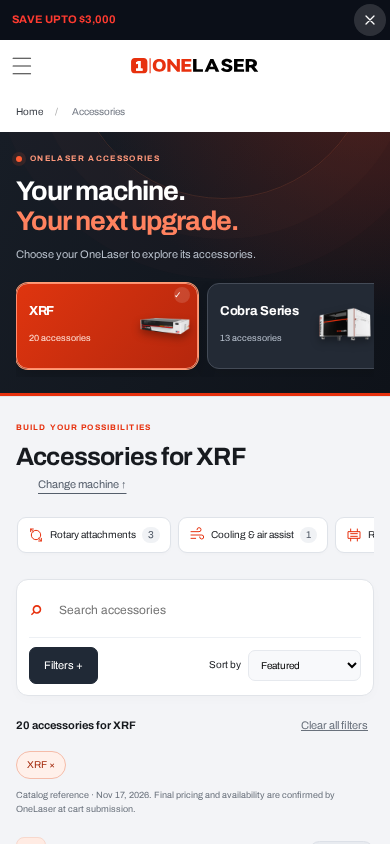
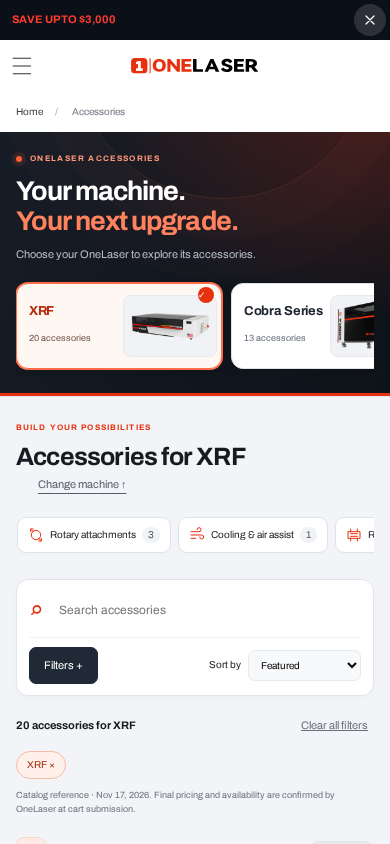
Improve machine thumbnail clarity with light selector cards

Changed region(s): [[0.0308, 0.3081, 0.9846, 0.4621]]

diff --git a/assets/ac-theme.css b/assets/ac-theme.css
@@ -11,14 +11,14 @@
 
 :scope{--ink:#171a1f;--muted:#626873;--line:#e4e6ea;--soft:#f3f4f7;--accent:#e7310e;--accent-deep:#c82709;--accent-soft:#fff0ea;--night:#11151c}
 :scope{background:#fff}.announcement{background:var(--night);font-size:11px;padding:8px 20px;letter-spacing:.04em}.announcement a{color:#ff9a7d}.header{padding:23px 40px;min-height:83px;border-bottom:1px solid #e6e8ec}.logo{display:inline-flex;align-items:center}.logo img{display:block;max-width:100%;height:auto}.header nav{font-size:13px;font-weight:700;gap:34px}.header nav a{position:relative}.header nav .active:after{content:'';position:absolute;bottom:-30px;left:0;right:0;height:3px;background:var(--accent);border-radius:2px}.header-help{background:var(--accent);color:#fff;padding:10px 18px;border:0;border-radius:30px;font-weight:700;box-shadow:0 4px 14px #e7310e22}.breadcrumb{padding-top:15px;padding-bottom:15px;color:#717782}.breadcrumb a{color:#3a3f47}.wrap{max-width:1360px}
-.machine-section{position:relative;overflow:hidden;background:radial-gradient(ellipse at 95% -30%,#9d2a1870,transparent 55%),linear-gradient(115deg,#171d26,#0e1219);padding:25px 0 22px;color:#fff;border-bottom:3px solid var(--accent)}.machine-section:before{content:'';position:absolute;width:300px;height:300px;right:4%;top:-235px;border:1px solid #ff7f4d25;border-radius:50%;box-shadow:0 0 0 40px #ff7f4d06,0 0 0 80px #ff7f4d05;pointer-events:none}.machine-section .wrap{position:relative}.machine-section .section-head{margin-bottom:18px}.machine-section .eyebrow{color:#ff987b;font-size:10px;letter-spacing:.17em;display:flex;align-items:center;gap:8px}.machine-section .eyebrow:before{content:'';width:6px;height:6px;border-radius:50%;background:#ff5c32;box-shadow:0 0 0 4px #ff5c3220}.machine-section h1{font-size:32px;color:#fff;letter-spacing:-.9px}.machine-section h1 span{color:#ff825f}.picker-intro{color:#b7bfca;font-size:12px;margin-top:8px}.machines{gap:11px;padding:2px 2px 8px;scrollbar-color:#606976 #ffffff08}.machine,.machine:first-child{position:relative;background:#232a35;border:1px solid #444b57;border-radius:12px;color:#f8f9fb;flex:1 0 0;min-width:182px;height:88px;min-height:88px;display:flex;align-items:center;padding:14px 12px;isolation:isolate;box-shadow:0 6px 16px #00000012;transition:background .2s,border-color .2s,transform .2s}.machine:hover{background:#303743;border-color:#fa8568;transform:translateY(-2px)}.machine strong{font-size:14px;margin-bottom:6px;color:#fff}.machine small{color:#b8c1ce;font-size:10px}.machine[aria-pressed=true]{background:linear-gradient(130deg,#df350f,#b5270d);border-color:#ff8e6f;box-shadow:0 0 0 1px #ff9e75,0 8px 20px #0003}.machine[aria-pressed=true] small{color:#ffe2d8}.machine[aria-pressed=true]:after{color:#fff;right:7px;top:3px;background:#fff2;width:16px;height:16px;border-radius:50%;line-height:16px;font-size:9px}.machine-photo{width:72px;height:62px;object-fit:contain;flex-shrink:0;order:2;margin-left:auto;filter:drop-shadow(0 4px 4px #0005);border-radius:4px}.machine-copy{display:block;position:relative;z-index:1;white-space:nowrap;min-width:90px}.machine::before{display:none}.machine:first-child::before{display:none}
+.machine-section{position:relative;overflow:hidden;background:radial-gradient(ellipse at 95% -30%,#9d2a1870,transparent 55%),linear-gradient(115deg,#171d26,#0e1219);padding:25px 0 22px;color:#fff;border-bottom:3px solid var(--accent)}.machine-section:before{content:'';position:absolute;width:300px;height:300px;right:4%;top:-235px;border:1px solid #ff7f4d25;border-radius:50%;box-shadow:0 0 0 40px #ff7f4d06,0 0 0 80px #ff7f4d05;pointer-events:none}.machine-section .wrap{position:relative}.machine-section .section-head{margin-bottom:18px}.machine-section .eyebrow{color:#ff987b;font-size:10px;letter-spacing:.17em;display:flex;align-items:center;gap:8px}.machine-section .eyebrow:before{content:'';width:6px;height:6px;border-radius:50%;background:#ff5c32;box-shadow:0 0 0 4px #ff5c3220}.machine-section h1{font-size:32px;color:#fff;letter-spacing:-.9px}.machine-section h1 span{color:#ff825f}.picker-intro{color:#b7bfca;font-size:12px;margin-top:8px}.machines{gap:11px;padding:2px 2px 8px;scrollbar-color:#606976 #ffffff08}.machine,.machine:first-child{position:relative;background:#fff;border:1px solid #dce1e8;border-radius:12px;color:#202630;flex:1 0 0;min-width:206px;height:88px;min-height:88px;display:flex;align-items:center;padding:14px 12px;isolation:isolate;box-shadow:0 6px 16px #00000012;transition:background .2s,border-color .2s,transform .2s}.machine:hover{background:#fffaf7;border-color:#fa8568;transform:translateY(-2px)}.machine strong{font-size:14px;margin-bottom:6px;color:#202630}.machine small{color:#626b78;font-size:10px}.machine[aria-pressed=true]{background:#fff7f2;border-color:#ff6d48;box-shadow:0 0 0 1px #ff6d48,0 6px 16px #0002}.machine[aria-pressed=true] strong{color:#b82b0d}.machine[aria-pressed=true] small{color:#6c5045}.machine[aria-pressed=true]:after{color:#fff;right:7px;top:3px;background:#e7310e;width:16px;height:16px;border-radius:50%;line-height:16px;font-size:9px}.machine-photo{width:94px;height:64px;object-fit:cover;flex-shrink:0;order:2;margin-left:auto;filter:none;background:#f0f2f5;border:1px solid #e6e9ee;border-radius:8px}.machine-copy{display:block;position:relative;z-index:1;white-space:nowrap;min-width:78px;margin-right:4px}.machine::before{display:none}.machine:first-child::before{display:none}
 .catalog-section{background:#f3f4f7;padding:34px 0 64px}.catalog-section .eyebrow{font-size:10px;margin-bottom:7px}.catalog-section h2{font-size:30px;font-weight:700;letter-spacing:-1px}.catalog-section .section-head{margin-bottom:23px}#change-machine{font-size:11px;color:#555e6b}.category-nav{margin-bottom:22px;gap:8px}.category-nav a{display:flex;align-items:center;gap:8px;padding:10px 14px;border-radius:9px;border:1px solid #dfe3e9;font-size:11px;background:#fff;box-shadow:0 2px 3px #1d253004;transition:background .18s,box-shadow .18s}.category-nav a>svg{width:18px;height:18px;color:var(--accent);flex-shrink:0}.category-nav a>span{border-radius:20px;display:inline-block;background:#f0f2f5;padding:0 6px;font-size:10px;margin:0;color:#4e5764}.category-nav a:hover{background:#fff5f1;border-color:#ee9d89;text-decoration:none;box-shadow:0 4px 12px #e7310e0a}
 .toolbar{background:white;border:1px solid #e1e4e9;border-radius:12px;padding:12px 18px;box-shadow:0 3px 12px #1e273405;gap:15px}.search{flex:1}.search>span{color:var(--accent)}.search input{width:100%;max-width:470px;font-size:12px}.sort{font-size:11px}.sort select{border-color:#e6e9ee;background:#f8f9fb;font-size:11px;border-radius:7px;padding:9px 12px}.catalog-layout{grid-template-columns:220px minmax(0,1fr);gap:25px;padding-top:25px}#filters{align-self:start;background:#fff;border:1px solid #e1e4e9;border-radius:14px;padding:20px 17px;box-shadow:0 4px 15px #1c253204}.filter-heading{font-size:12px;border-bottom:1px solid var(--line);padding-bottom:17px;margin-bottom:20px}.filter-heading strong:before{content:'≡';color:var(--accent);font-size:17px;line-height:0;margin-right:7px}.filter-heading button{color:var(--accent)}.filter-label{font-size:11px}#machine-select{background:#f7f8fa;border-color:#e2e5ea;border-radius:7px}fieldset{margin-top:24px;padding-top:18px}legend{font-size:11px}fieldset label{font-size:11px;gap:8px}fieldset input[type=checkbox]{width:14px;height:14px;margin:0}fieldset label small{background:#f3f4f7;padding:1px 6px;border-radius:4px;font-size:9px}#max-price{font-size:12px;background:#f7f8fa;border-radius:7px}.help-card{position:relative;overflow:hidden;background:linear-gradient(145deg,#202937,#111820);color:#fff;border:1px solid #333d4b;border-radius:10px;padding:18px 15px;margin-top:22px}.help-card:before{content:'';width:26px;height:3px;background:var(--accent);display:block;margin-bottom:14px}.help-card span{color:#ff9c7e;font-size:8px}.help-card h3{font-size:15px}.help-card p{color:#bec7d3;font-size:11px}.help-card a{color:#fff;font-size:10px}.results-line{align-items:center;font-size:12px;margin:0 0 5px}.results-line p{font-weight:700}.results-line button{color:#69717c}.snapshot-note{font-size:10px;color:#68707b;margin:9px 0 23px}.chips button{background:#fff0ea;color:#a3290b;border-color:#f5bca9;padding:5px 10px;border-radius:20px}
 .category-group{margin-bottom:40px}.category-heading{border-bottom:1px solid #dce0e6;padding-bottom:14px;gap:12px;margin-bottom:18px}.category-icon{display:inline-flex;align-items:center;justify-content:center;width:36px;height:36px;flex-shrink:0;background:#ffebe3;color:#cd2d0c;border-radius:10px;border:1px solid #f7d8cd}.category-icon svg{width:21px;height:21px}.category-heading h3{font-size:21px;letter-spacing:-.5px;margin:0}.category-heading>span:last-child{margin-left:auto;background:#e8ebf0;border:1px solid #dce0e7;border-radius:20px;padding:3px 10px;font-size:10px;color:#5c6572}.product-grid{gap:17px}.product{border:1px solid #e1e5ea;border-radius:16px;background:white;box-shadow:0 5px 14px #16263b06;transition:transform .2s,box-shadow .2s,border-color .2s}.product:hover{border-color:#e99c86;box-shadow:0 10px 30px #28364812;transform:translateY(-3px)}.product-image{background:radial-gradient(ellipse at 50% 65%,#e8ebef,transparent 65%),#f9fafc;border-bottom:1px solid #eef0f4}.product-image img{height:225px;padding:28px 18px 16px;mix-blend-mode:multiply}.product-type{background:#fffdfb;color:#8f321a;box-shadow:0 1px 5px #11111105;border:1px solid #f0dcd5;border-radius:20px;padding:3px 8px;font-size:8px;letter-spacing:.01em}.product-body{padding:20px 17px 15px}.product h3{font-size:14px;line-height:1.45;letter-spacing:-.15px;min-height:42px}.product-description{font-size:11px;color:#69707c;line-height:1.65;min-height:36px;margin-bottom:16px}.product-bottom{margin-top:16px;margin-bottom:15px}.product-bottom .price{font-size:23px;color:#171c24;letter-spacing:-.7px}.product-bottom .price small{font-size:9px;color:#626b78;font-weight:400;letter-spacing:0;margin-left:0;margin-right:3px}.product-bottom .price small:last-child{margin-left:5px}.purchase-actions{display:grid;grid-template-columns:1.12fr 1fr;align-items:start;gap:8px}.quick-cart{margin:0;min-width:0}.quick-cart .button,.configure-cart{margin:0;border-radius:25px;height:40px;min-height:40px;font-size:10px;box-shadow:0 4px 8px #e7310e15;padding:9px 6px;letter-spacing:0}.configure-wrap{min-width:0;position:relative}.purchase-actions>.button{margin:0}.purchase-actions .learn-more{display:flex;justify-content:center;align-items:center;gap:7px;height:40px;border:1px solid #cfd5df;border-radius:25px;color:#343d49;font-size:10px;font-weight:700;white-space:nowrap;background:#fff;text-decoration:none}.purchase-actions .learn-more:hover{background:#f6f7fa;border-color:#7e8998}.options-note{position:absolute;top:41px;left:0;right:0;font-size:8px;margin:0;min-height:0;white-space:nowrap}.compare-check{margin-top:25px;color:#6c7582;font-size:10px}.compare-check input{margin:0 3px 0 0;width:13px;height:13px}.button.primary{background:var(--accent);border-color:var(--accent)}.button.primary:hover{background:var(--accent-deep)}
 .guidance{padding-top:60px;padding-bottom:60px;gap:80px}.guidance h2{font-size:32px;line-height:1.2}.faqs{background:#f7f8fa;border:1px solid #e3e7ed;border-radius:16px;padding:8px 24px}.faqs details,.faqs details:first-child{padding:17px 0}.faqs details:last-child{border-bottom:0}.faqs summary{font-size:12px}.faqs details[open] summary{color:#ca2b0d}.expert{position:relative;overflow:hidden;background:radial-gradient(ellipse at 90% 100%,#9c341f70,transparent 55%),#111820;border-top:3px solid var(--accent);padding:40px 0}.expert:after{content:'ONE';position:absolute;right:25%;bottom:-48px;font-size:190px;line-height:1;color:#ffffff03;font-weight:700;pointer-events:none}.expert .wrap{position:relative;z-index:1}.expert h2{font-size:34px}.expert .button{background:var(--accent);color:#fff;border-radius:30px;box-shadow:0 5px 25px #e7310e35}footer{color:#6e7682;padding-top:28px!important}dialog{border:1px solid #d9dfe7;box-shadow:0 24px 90px #0b142440;padding:30px;border-radius:20px}dialog::backdrop{background:#0c121eb3;backdrop-filter:blur(4px)}.dialog-head{padding-bottom:16px;border-bottom:1px solid #e6e9ef}.dialog-head h2{font-size:22px}.dialog-head button{background:#f1f3f6;width:32px;height:32px;border-radius:50%;font-size:16px}#variant-select,#cart-quantity{background:#f7f8fa;border-color:#dce1e9;border-radius:8px}#variant-note{background:#fff4ec;padding:12px;font-size:11px;border-radius:0 8px 8px 0}.compare-tray{background:#151d28;border:1px solid #48505c;box-shadow:0 8px 35px #11182735;border-radius:16px}.compare-tray .button{border-radius:25px}
-@media(max-width:1150px){.machine,.machine:first-child{flex:0 0 190px}.header nav{gap:22px}.catalog-layout{grid-template-columns:195px minmax(0,1fr);gap:20px}.product-grid{gap:13px}.product-image img{height:210px}.purchase-actions{grid-template-columns:1fr}.purchase-actions .learn-more{height:34px}.options-note{display:none}.compare-check{margin-top:16px}}
+@media(max-width:1150px){.machine,.machine:first-child{flex:0 0 206px}.header nav{gap:22px}.catalog-layout{grid-template-columns:195px minmax(0,1fr);gap:20px}.product-grid{gap:13px}.product-image img{height:210px}.purchase-actions{grid-template-columns:1fr}.purchase-actions .learn-more{height:34px}.options-note{display:none}.compare-check{margin-top:16px}}
 @media(max-width:1050px){.header nav .active:after{bottom:-30px}.product-grid{grid-template-columns:repeat(2,minmax(0,1fr))}.purchase-actions{grid-template-columns:1.1fr 1fr}.purchase-actions .learn-more{height:40px}.options-note{display:block}.compare-check{margin-top:24px}}
-@media(max-width:650px){.header{min-height:67px;padding:18px 16px}.header .logo img{width:132px;height:auto}.header nav{font-size:10px;gap:13px}.header nav .active:after{bottom:-24px}.announcement{font-size:9px;letter-spacing:.02em;padding:7px 12px}.breadcrumb{padding-top:12px;padding-bottom:12px;font-size:10px}.machine-section{padding:21px 0 16px}.machine-section h1{font-size:27px;line-height:1.12;max-width:330px}.machine-section h1 span{display:block}.machine-section .eyebrow{font-size:8px;margin-bottom:10px}.picker-intro{font-size:11px;margin-top:10px}.machine-section .section-head{margin-bottom:17px}.machines{gap:9px}.machine,.machine:first-child{flex:0 0 181px;height:86px;min-height:86px;padding:12px}.machine-photo{width:68px;height:58px}.machine strong{font-size:13px}.machine small{font-size:9px}.catalog-section{padding-top:25px;padding-bottom:35px}.catalog-section h2{font-size:25px;letter-spacing:-.8px}.catalog-section .section-head{margin-bottom:16px}.catalog-section .eyebrow{font-size:8px}.category-nav{margin:0 0 17px;padding-bottom:9px;gap:7px}.category-nav a{font-size:10px;padding:9px 10px;gap:6px}.category-nav a>svg{width:16px;height:16px}.toolbar{padding:11px 12px;gap:9px}.search{flex-basis:100%;border-bottom:1px solid #edf0f4;padding-bottom:7px}.search input{font-size:12px;padding:6px}.mobile-filter{font-size:11px;padding:9px 14px;background:#202936;border-color:#202936;border-radius:7px;color:#fff}.sort{font-size:10px}.sort select{padding:8px;font-size:10px}.catalog-layout{grid-template-columns:1fr;padding-top:20px;gap:20px}#filters{padding:20px;width:100%}.results-line{font-size:11px}.snapshot-note{font-size:9px;line-height:1.6;margin-bottom:20px}.category-heading{gap:8px;margin-bottom:13px;padding-bottom:10px}.category-icon{width:30px;height:30px;border-radius:8px}.category-icon svg{width:18px;height:18px}.category-heading h3{font-size:17px}.category-heading>span:last-child{font-size:8px;padding:3px 7px}.product-grid{gap:10px}.product{border-radius:12px}.product-image img{height:160px;padding:32px 10px 13px}.product-type{font-size:7px;padding:2px 5px;left:7px;top:8px;max-width:94%}.product-body{padding:12px 10px}.product h3{font-size:12px;min-height:52px}.product-description{font-size:10px;min-height:50px;margin-bottom:12px}.product-bottom{margin-top:12px;margin-bottom:12px}.product-bottom .price{font-size:19px}.product-bottom .price small{font-size:8px}.product-bottom .price small:first-child{display:block;line-height:1.3}.product-bottom .price small:last-child{margin-left:4px}.purchase-actions{grid-template-columns:1fr;gap:7px}.quick-cart .button,.configure-cart{height:36px;min-height:36px;font-size:10px}.purchase-actions .learn-more{height:33px;font-size:10px}.options-note{display:none}.compare-check{margin-top:13px;font-size:9px}.guidance{padding-top:36px;padding-bottom:36px;gap:25px}.guidance h2{font-size:27px}.faqs{padding:4px 16px;border-radius:12px}.faqs summary{font-size:11px}.expert{padding:30px 0}.expert h2{font-size:28px}.expert .button{font-size:11px;padding:12px 18px}.expert:after{font-size:130px;right:0;bottom:-30px}dialog{padding:20px;border-radius:16px}.dialog-head h2{font-size:18px}.dialog-head button{flex-shrink:0}.compare-tray{border-radius:12px}.compare-tray .button{border-radius:20px}footer{gap:20px}footer .logo img{width:130px}}
+@media(max-width:650px){.header{min-height:67px;padding:18px 16px}.header .logo img{width:132px;height:auto}.header nav{font-size:10px;gap:13px}.header nav .active:after{bottom:-24px}.announcement{font-size:9px;letter-spacing:.02em;padding:7px 12px}.breadcrumb{padding-top:12px;padding-bottom:12px;font-size:10px}.machine-section{padding:21px 0 16px}.machine-section h1{font-size:27px;line-height:1.12;max-width:330px}.machine-section h1 span{display:block}.machine-section .eyebrow{font-size:8px;margin-bottom:10px}.picker-intro{font-size:11px;margin-top:10px}.machine-section .section-head{margin-bottom:17px}.machines{gap:9px}.machine,.machine:first-child{flex:0 0 206px;height:86px;min-height:86px;padding:12px}.machine-photo{width:94px;height:62px}.machine strong{font-size:13px}.machine small{font-size:9px}.catalog-section{padding-top:25px;padding-bottom:35px}.catalog-section h2{font-size:25px;letter-spacing:-.8px}.catalog-section .section-head{margin-bottom:16px}.catalog-section .eyebrow{font-size:8px}.category-nav{margin:0 0 17px;padding-bottom:9px;gap:7px}.category-nav a{font-size:10px;padding:9px 10px;gap:6px}.category-nav a>svg{width:16px;height:16px}.toolbar{padding:11px 12px;gap:9px}.search{flex-basis:100%;border-bottom:1px solid #edf0f4;padding-bottom:7px}.search input{font-size:12px;padding:6px}.mobile-filter{font-size:11px;padding:9px 14px;background:#202936;border-color:#202936;border-radius:7px;color:#fff}.sort{font-size:10px}.sort select{padding:8px;font-size:10px}.catalog-layout{grid-template-columns:1fr;padding-top:20px;gap:20px}#filters{padding:20px;width:100%}.results-line{font-size:11px}.snapshot-note{font-size:9px;line-height:1.6;margin-bottom:20px}.category-heading{gap:8px;margin-bottom:13px;padding-bottom:10px}.category-icon{width:30px;height:30px;border-radius:8px}.category-icon svg{width:18px;height:18px}.category-heading h3{font-size:17px}.category-heading>span:last-child{font-size:8px;padding:3px 7px}.product-grid{gap:10px}.product{border-radius:12px}.product-image img{height:160px;padding:32px 10px 13px}.product-type{font-size:7px;padding:2px 5px;left:7px;top:8px;max-width:94%}.product-body{padding:12px 10px}.product h3{font-size:12px;min-height:52px}.product-description{font-size:10px;min-height:50px;margin-bottom:12px}.product-bottom{margin-top:12px;margin-bottom:12px}.product-bottom .price{font-size:19px}.product-bottom .price small{font-size:8px}.product-bottom .price small:first-child{display:block;line-height:1.3}.product-bottom .price small:last-child{margin-left:4px}.purchase-actions{grid-template-columns:1fr;gap:7px}.quick-cart .button,.configure-cart{height:36px;min-height:36px;font-size:10px}.purchase-actions .learn-more{height:33px;font-size:10px}.options-note{display:none}.compare-check{margin-top:13px;font-size:9px}.guidance{padding-top:36px;padding-bottom:36px;gap:25px}.guidance h2{font-size:27px}.faqs{padding:4px 16px;border-radius:12px}.faqs summary{font-size:11px}.expert{padding:30px 0}.expert h2{font-size:28px}.expert .button{font-size:11px;padding:12px 18px}.expert:after{font-size:130px;right:0;bottom:-30px}dialog{padding:20px;border-radius:16px}.dialog-head h2{font-size:18px}.dialog-head button{flex-shrink:0}.compare-tray{border-radius:12px}.compare-tray .button{border-radius:20px}footer{gap:20px}footer .logo img{width:130px}}
 @media(prefers-reduced-motion:reduce){.machine,.product,.category-nav a{transition:none}.machine:hover,.product:hover{transform:none}}
 .category-heading>.category-icon{color:#cd2d0c;font-size:inherit}
 

diff --git a/assets/accessories-brand.css b/assets/accessories-brand.css
@@ -1,13 +1,13 @@
 :root{--ink:#171a1f;--muted:#626873;--line:#e4e6ea;--soft:#f3f4f7;--accent:#e7310e;--accent-deep:#c82709;--accent-soft:#fff0ea;--night:#11151c}
 body{background:#fff}.announcement{background:var(--night);font-size:11px;padding:8px 20px;letter-spacing:.04em}.announcement a{color:#ff9a7d}.header{padding:23px 40px;min-height:83px;border-bottom:1px solid #e6e8ec}.logo{display:inline-flex;align-items:center}.logo img{display:block;max-width:100%;height:auto}.header nav{font-size:13px;font-weight:700;gap:34px}.header nav a{position:relative}.header nav .active:after{content:'';position:absolute;bottom:-30px;left:0;right:0;height:3px;background:var(--accent);border-radius:2px}.header-help{background:var(--accent);color:#fff;padding:10px 18px;border:0;border-radius:30px;font-weight:700;box-shadow:0 4px 14px #e7310e22}.breadcrumb{padding-top:15px;padding-bottom:15px;color:#717782}.breadcrumb a{color:#3a3f47}.wrap{max-width:1360px}
-.machine-section{position:relative;overflow:hidden;background:radial-gradient(ellipse at 95% -30%,#9d2a1870,transparent 55%),linear-gradient(115deg,#171d26,#0e1219);padding:25px 0 22px;color:#fff;border-bottom:3px solid var(--accent)}.machine-section:before{content:'';position:absolute;width:300px;height:300px;right:4%;top:-235px;border:1px solid #ff7f4d25;border-radius:50%;box-shadow:0 0 0 40px #ff7f4d06,0 0 0 80px #ff7f4d05;pointer-events:none}.machine-section .wrap{position:relative}.machine-section .section-head{margin-bottom:18px}.machine-section .eyebrow{color:#ff987b;font-size:10px;letter-spacing:.17em;display:flex;align-items:center;gap:8px}.machine-section .eyebrow:before{content:'';width:6px;height:6px;border-radius:50%;background:#ff5c32;box-shadow:0 0 0 4px #ff5c3220}.machine-section h1{font-size:32px;color:#fff;letter-spacing:-.9px}.machine-section h1 span{color:#ff825f}.picker-intro{color:#b7bfca;font-size:12px;margin-top:8px}.machines{gap:11px;padding:2px 2px 8px;scrollbar-color:#606976 #ffffff08}.machine,.machine:first-child{position:relative;background:#232a35;border:1px solid #444b57;border-radius:12px;color:#f8f9fb;flex:1 0 0;min-width:182px;height:88px;min-height:88px;display:flex;align-items:center;padding:14px 12px;isolation:isolate;box-shadow:0 6px 16px #00000012;transition:background .2s,border-color .2s,transform .2s}.machine:hover{background:#303743;border-color:#fa8568;transform:translateY(-2px)}.machine strong{font-size:14px;margin-bottom:6px;color:#fff}.machine small{color:#b8c1ce;font-size:10px}.machine[aria-pressed=true]{background:linear-gradient(130deg,#df350f,#b5270d);border-color:#ff8e6f;box-shadow:0 0 0 1px #ff9e75,0 8px 20px #0003}.machine[aria-pressed=true] small{color:#ffe2d8}.machine[aria-pressed=true]:after{color:#fff;right:7px;top:3px;background:#fff2;width:16px;height:16px;border-radius:50%;line-height:16px;font-size:9px}.machine-photo{width:72px;height:62px;object-fit:contain;flex-shrink:0;order:2;margin-left:auto;filter:drop-shadow(0 4px 4px #0005);border-radius:4px}.machine-copy{display:block;position:relative;z-index:1;white-space:nowrap;min-width:90px}.machine::before{display:none}.machine:first-child::before{display:none}
+.machine-section{position:relative;overflow:hidden;background:radial-gradient(ellipse at 95% -30%,#9d2a1870,transparent 55%),linear-gradient(115deg,#171d26,#0e1219);padding:25px 0 22px;color:#fff;border-bottom:3px solid var(--accent)}.machine-section:before{content:'';position:absolute;width:300px;height:300px;right:4%;top:-235px;border:1px solid #ff7f4d25;border-radius:50%;box-shadow:0 0 0 40px #ff7f4d06,0 0 0 80px #ff7f4d05;pointer-events:none}.machine-section .wrap{position:relative}.machine-section .section-head{margin-bottom:18px}.machine-section .eyebrow{color:#ff987b;font-size:10px;letter-spacing:.17em;display:flex;align-items:center;gap:8px}.machine-section .eyebrow:before{content:'';width:6px;height:6px;border-radius:50%;background:#ff5c32;box-shadow:0 0 0 4px #ff5c3220}.machine-section h1{font-size:32px;color:#fff;letter-spacing:-.9px}.machine-section h1 span{color:#ff825f}.picker-intro{color:#b7bfca;font-size:12px;margin-top:8px}.machines{gap:11px;padding:2px 2px 8px;scrollbar-color:#606976 #ffffff08}.machine,.machine:first-child{position:relative;background:#fff;border:1px solid #dce1e8;border-radius:12px;color:#202630;flex:1 0 0;min-width:206px;height:88px;min-height:88px;display:flex;align-items:center;padding:14px 12px;isolation:isolate;box-shadow:0 6px 16px #00000012;transition:background .2s,border-color .2s,transform .2s}.machine:hover{background:#fffaf7;border-color:#fa8568;transform:translateY(-2px)}.machine strong{font-size:14px;margin-bottom:6px;color:#202630}.machine small{color:#626b78;font-size:10px}.machine[aria-pressed=true]{background:#fff7f2;border-color:#ff6d48;box-shadow:0 0 0 1px #ff6d48,0 6px 16px #0002}.machine[aria-pressed=true] strong{color:#b82b0d}.machine[aria-pressed=true] small{color:#6c5045}.machine[aria-pressed=true]:after{color:#fff;right:7px;top:3px;background:#e7310e;width:16px;height:16px;border-radius:50%;line-height:16px;font-size:9px}.machine-photo{width:94px;height:64px;object-fit:cover;flex-shrink:0;order:2;margin-left:auto;filter:none;background:#f0f2f5;border:1px solid #e6e9ee;border-radius:8px}.machine-copy{display:block;position:relative;z-index:1;white-space:nowrap;min-width:78px;margin-right:4px}.machine::before{display:none}.machine:first-child::before{display:none}
 .catalog-section{background:#f3f4f7;padding:34px 0 64px}.catalog-section .eyebrow{font-size:10px;margin-bottom:7px}.catalog-section h2{font-size:30px;font-weight:700;letter-spacing:-1px}.catalog-section .section-head{margin-bottom:23px}#change-machine{font-size:11px;color:#555e6b}.category-nav{margin-bottom:22px;gap:8px}.category-nav a{display:flex;align-items:center;gap:8px;padding:10px 14px;border-radius:9px;border:1px solid #dfe3e9;font-size:11px;background:#fff;box-shadow:0 2px 3px #1d253004;transition:background .18s,box-shadow .18s}.category-nav a>svg{width:18px;height:18px;color:var(--accent);flex-shrink:0}.category-nav a>span{border-radius:20px;display:inline-block;background:#f0f2f5;padding:0 6px;font-size:10px;margin:0;color:#4e5764}.category-nav a:hover{background:#fff5f1;border-color:#ee9d89;text-decoration:none;box-shadow:0 4px 12px #e7310e0a}
 .toolbar{background:white;border:1px solid #e1e4e9;border-radius:12px;padding:12px 18px;box-shadow:0 3px 12px #1e273405;gap:15px}.search{flex:1}.search>span{color:var(--accent)}.search input{width:100%;max-width:470px;font-size:12px}.sort{font-size:11px}.sort select{border-color:#e6e9ee;background:#f8f9fb;font-size:11px;border-radius:7px;padding:9px 12px}.catalog-layout{grid-template-columns:220px minmax(0,1fr);gap:25px;padding-top:25px}#filters{align-self:start;background:#fff;border:1px solid #e1e4e9;border-radius:14px;padding:20px 17px;box-shadow:0 4px 15px #1c253204}.filter-heading{font-size:12px;border-bottom:1px solid var(--line);padding-bottom:17px;margin-bottom:20px}.filter-heading strong:before{content:'≡';color:var(--accent);font-size:17px;line-height:0;margin-right:7px}.filter-heading button{color:var(--accent)}.filter-label{font-size:11px}#machine-select{background:#f7f8fa;border-color:#e2e5ea;border-radius:7px}fieldset{margin-top:24px;padding-top:18px}legend{font-size:11px}fieldset label{font-size:11px;gap:8px}fieldset input[type=checkbox]{width:14px;height:14px;margin:0}fieldset label small{background:#f3f4f7;padding:1px 6px;border-radius:4px;font-size:9px}#max-price{font-size:12px;background:#f7f8fa;border-radius:7px}.help-card{position:relative;overflow:hidden;background:linear-gradient(145deg,#202937,#111820);color:#fff;border:1px solid #333d4b;border-radius:10px;padding:18px 15px;margin-top:22px}.help-card:before{content:'';width:26px;height:3px;background:var(--accent);display:block;margin-bottom:14px}.help-card span{color:#ff9c7e;font-size:8px}.help-card h3{font-size:15px}.help-card p{color:#bec7d3;font-size:11px}.help-card a{color:#fff;font-size:10px}.results-line{align-items:center;font-size:12px;margin:0 0 5px}.results-line p{font-weight:700}.results-line button{color:#69717c}.snapshot-note{font-size:10px;color:#68707b;margin:9px 0 23px}.chips button{background:#fff0ea;color:#a3290b;border-color:#f5bca9;padding:5px 10px;border-radius:20px}
 .category-group{margin-bottom:40px}.category-heading{border-bottom:1px solid #dce0e6;padding-bottom:14px;gap:12px;margin-bottom:18px}.category-icon{display:inline-flex;align-items:center;justify-content:center;width:36px;height:36px;flex-shrink:0;background:#ffebe3;color:#cd2d0c;border-radius:10px;border:1px solid #f7d8cd}.category-icon svg{width:21px;height:21px}.category-heading h3{font-size:21px;letter-spacing:-.5px;margin:0}.category-heading>span:last-child{margin-left:auto;background:#e8ebf0;border:1px solid #dce0e7;border-radius:20px;padding:3px 10px;font-size:10px;color:#5c6572}.product-grid{gap:17px}.product{border:1px solid #e1e5ea;border-radius:16px;background:white;box-shadow:0 5px 14px #16263b06;transition:transform .2s,box-shadow .2s,border-color .2s}.product:hover{border-color:#e99c86;box-shadow:0 10px 30px #28364812;transform:translateY(-3px)}.product-image{background:radial-gradient(ellipse at 50% 65%,#e8ebef,transparent 65%),#f9fafc;border-bottom:1px solid #eef0f4}.product-image img{height:225px;padding:28px 18px 16px;mix-blend-mode:multiply}.product-type{background:#fffdfb;color:#8f321a;box-shadow:0 1px 5px #11111105;border:1px solid #f0dcd5;border-radius:20px;padding:3px 8px;font-size:8px;letter-spacing:.01em}.product-body{padding:20px 17px 15px}.product h3{font-size:14px;line-height:1.45;letter-spacing:-.15px;min-height:42px}.product-description{font-size:11px;color:#69707c;line-height:1.65;min-height:36px;margin-bottom:16px}.product-bottom{margin-top:16px;margin-bottom:15px}.product-bottom .price{font-size:23px;color:#171c24;letter-spacing:-.7px}.product-bottom .price small{font-size:9px;color:#626b78;font-weight:400;letter-spacing:0;margin-left:0;margin-right:3px}.product-bottom .price small:last-child{margin-left:5px}.purchase-actions{display:grid;grid-template-columns:1.12fr 1fr;align-items:start;gap:8px}.quick-cart{margin:0;min-width:0}.quick-cart .button,.configure-cart{margin:0;border-radius:25px;height:40px;min-height:40px;font-size:10px;box-shadow:0 4px 8px #e7310e15;padding:9px 6px;letter-spacing:0}.configure-wrap{min-width:0;position:relative}.purchase-actions>.button{margin:0}.purchase-actions .learn-more{display:flex;justify-content:center;align-items:center;gap:7px;height:40px;border:1px solid #cfd5df;border-radius:25px;color:#343d49;font-size:10px;font-weight:700;white-space:nowrap;background:#fff;text-decoration:none}.purchase-actions .learn-more:hover{background:#f6f7fa;border-color:#7e8998}.options-note{position:absolute;top:41px;left:0;right:0;font-size:8px;margin:0;min-height:0;white-space:nowrap}.compare-check{margin-top:25px;color:#6c7582;font-size:10px}.compare-check input{margin:0 3px 0 0;width:13px;height:13px}.button.primary{background:var(--accent);border-color:var(--accent)}.button.primary:hover{background:var(--accent-deep)}
 .guidance{padding-top:60px;padding-bottom:60px;gap:80px}.guidance h2{font-size:32px;line-height:1.2}.faqs{background:#f7f8fa;border:1px solid #e3e7ed;border-radius:16px;padding:8px 24px}.faqs details,.faqs details:first-child{padding:17px 0}.faqs details:last-child{border-bottom:0}.faqs summary{font-size:12px}.faqs details[open] summary{color:#ca2b0d}.expert{position:relative;overflow:hidden;background:radial-gradient(ellipse at 90% 100%,#9c341f70,transparent 55%),#111820;border-top:3px solid var(--accent);padding:40px 0}.expert:after{content:'ONE';position:absolute;right:25%;bottom:-48px;font-size:190px;line-height:1;color:#ffffff03;font-weight:700;pointer-events:none}.expert .wrap{position:relative;z-index:1}.expert h2{font-size:34px}.expert .button{background:var(--accent);color:#fff;border-radius:30px;box-shadow:0 5px 25px #e7310e35}footer{color:#6e7682;padding-top:28px!important}dialog{border:1px solid #d9dfe7;box-shadow:0 24px 90px #0b142440;padding:30px;border-radius:20px}dialog::backdrop{background:#0c121eb3;backdrop-filter:blur(4px)}.dialog-head{padding-bottom:16px;border-bottom:1px solid #e6e9ef}.dialog-head h2{font-size:22px}.dialog-head button{background:#f1f3f6;width:32px;height:32px;border-radius:50%;font-size:16px}#variant-select,#cart-quantity{background:#f7f8fa;border-color:#dce1e9;border-radius:8px}#variant-note{background:#fff4ec;padding:12px;font-size:11px;border-radius:0 8px 8px 0}.compare-tray{background:#151d28;border:1px solid #48505c;box-shadow:0 8px 35px #11182735;border-radius:16px}.compare-tray .button{border-radius:25px}
-@media(max-width:1150px){.machine,.machine:first-child{flex:0 0 190px}.header nav{gap:22px}.catalog-layout{grid-template-columns:195px minmax(0,1fr);gap:20px}.product-grid{gap:13px}.product-image img{height:210px}.purchase-actions{grid-template-columns:1fr}.purchase-actions .learn-more{height:34px}.options-note{display:none}.compare-check{margin-top:16px}}
+@media(max-width:1150px){.machine,.machine:first-child{flex:0 0 206px}.header nav{gap:22px}.catalog-layout{grid-template-columns:195px minmax(0,1fr);gap:20px}.product-grid{gap:13px}.product-image img{height:210px}.purchase-actions{grid-template-columns:1fr}.purchase-actions .learn-more{height:34px}.options-note{display:none}.compare-check{margin-top:16px}}
 @media(max-width:1050px){.header nav .active:after{bottom:-30px}.product-grid{grid-template-columns:repeat(2,minmax(0,1fr))}.purchase-actions{grid-template-columns:1.1fr 1fr}.purchase-actions .learn-more{height:40px}.options-note{display:block}.compare-check{margin-top:24px}}
-@media(max-width:650px){.header{min-height:67px;padding:18px 16px}.header .logo img{width:132px;height:auto}.header nav{font-size:10px;gap:13px}.header nav .active:after{bottom:-24px}.announcement{font-size:9px;letter-spacing:.02em;padding:7px 12px}.breadcrumb{padding-top:12px;padding-bottom:12px;font-size:10px}.machine-section{padding:21px 0 16px}.machine-section h1{font-size:27px;line-height:1.12;max-width:330px}.machine-section h1 span{display:block}.machine-section .eyebrow{font-size:8px;margin-bottom:10px}.picker-intro{font-size:11px;margin-top:10px}.machine-section .section-head{margin-bottom:17px}.machines{gap:9px}.machine,.machine:first-child{flex:0 0 181px;height:86px;min-height:86px;padding:12px}.machine-photo{width:68px;height:58px}.machine strong{font-size:13px}.machine small{font-size:9px}.catalog-section{padding-top:25px;padding-bottom:35px}.catalog-section h2{font-size:25px;letter-spacing:-.8px}.catalog-section .section-head{margin-bottom:16px}.catalog-section .eyebrow{font-size:8px}.category-nav{margin:0 0 17px;padding-bottom:9px;gap:7px}.category-nav a{font-size:10px;padding:9px 10px;gap:6px}.category-nav a>svg{width:16px;height:16px}.toolbar{padding:11px 12px;gap:9px}.search{flex-basis:100%;border-bottom:1px solid #edf0f4;padding-bottom:7px}.search input{font-size:12px;padding:6px}.mobile-filter{font-size:11px;padding:9px 14px;background:#202936;border-color:#202936;border-radius:7px;color:#fff}.sort{font-size:10px}.sort select{padding:8px;font-size:10px}.catalog-layout{grid-template-columns:1fr;padding-top:20px;gap:20px}#filters{padding:20px;width:100%}.results-line{font-size:11px}.snapshot-note{font-size:9px;line-height:1.6;margin-bottom:20px}.category-heading{gap:8px;margin-bottom:13px;padding-bottom:10px}.category-icon{width:30px;height:30px;border-radius:8px}.category-icon svg{width:18px;height:18px}.category-heading h3{font-size:17px}.category-heading>span:last-child{font-size:8px;padding:3px 7px}.product-grid{gap:10px}.product{border-radius:12px}.product-image img{height:160px;padding:32px 10px 13px}.product-type{font-size:7px;padding:2px 5px;left:7px;top:8px;max-width:94%}.product-body{padding:12px 10px}.product h3{font-size:12px;min-height:52px}.product-description{font-size:10px;min-height:50px;margin-bottom:12px}.product-bottom{margin-top:12px;margin-bottom:12px}.product-bottom .price{font-size:19px}.product-bottom .price small{font-size:8px}.product-bottom .price small:first-child{display:block;line-height:1.3}.product-bottom .price small:last-child{margin-left:4px}.purchase-actions{grid-template-columns:1fr;gap:7px}.quick-cart .button,.configure-cart{height:36px;min-height:36px;font-size:10px}.purchase-actions .learn-more{height:33px;font-size:10px}.options-note{display:none}.compare-check{margin-top:13px;font-size:9px}.guidance{padding-top:36px;padding-bottom:36px;gap:25px}.guidance h2{font-size:27px}.faqs{padding:4px 16px;border-radius:12px}.faqs summary{font-size:11px}.expert{padding:30px 0}.expert h2{font-size:28px}.expert .button{font-size:11px;padding:12px 18px}.expert:after{font-size:130px;right:0;bottom:-30px}dialog{padding:20px;border-radius:16px}.dialog-head h2{font-size:18px}.dialog-head button{flex-shrink:0}.compare-tray{border-radius:12px}.compare-tray .button{border-radius:20px}footer{gap:20px}footer .logo img{width:130px}}
+@media(max-width:650px){.header{min-height:67px;padding:18px 16px}.header .logo img{width:132px;height:auto}.header nav{font-size:10px;gap:13px}.header nav .active:after{bottom:-24px}.announcement{font-size:9px;letter-spacing:.02em;padding:7px 12px}.breadcrumb{padding-top:12px;padding-bottom:12px;font-size:10px}.machine-section{padding:21px 0 16px}.machine-section h1{font-size:27px;line-height:1.12;max-width:330px}.machine-section h1 span{display:block}.machine-section .eyebrow{font-size:8px;margin-bottom:10px}.picker-intro{font-size:11px;margin-top:10px}.machine-section .section-head{margin-bottom:17px}.machines{gap:9px}.machine,.machine:first-child{flex:0 0 206px;height:86px;min-height:86px;padding:12px}.machine-photo{width:94px;height:62px}.machine strong{font-size:13px}.machine small{font-size:9px}.catalog-section{padding-top:25px;padding-bottom:35px}.catalog-section h2{font-size:25px;letter-spacing:-.8px}.catalog-section .section-head{margin-bottom:16px}.catalog-section .eyebrow{font-size:8px}.category-nav{margin:0 0 17px;padding-bottom:9px;gap:7px}.category-nav a{font-size:10px;padding:9px 10px;gap:6px}.category-nav a>svg{width:16px;height:16px}.toolbar{padding:11px 12px;gap:9px}.search{flex-basis:100%;border-bottom:1px solid #edf0f4;padding-bottom:7px}.search input{font-size:12px;padding:6px}.mobile-filter{font-size:11px;padding:9px 14px;background:#202936;border-color:#202936;border-radius:7px;color:#fff}.sort{font-size:10px}.sort select{padding:8px;font-size:10px}.catalog-layout{grid-template-columns:1fr;padding-top:20px;gap:20px}#filters{padding:20px;width:100%}.results-line{font-size:11px}.snapshot-note{font-size:9px;line-height:1.6;margin-bottom:20px}.category-heading{gap:8px;margin-bottom:13px;padding-bottom:10px}.category-icon{width:30px;height:30px;border-radius:8px}.category-icon svg{width:18px;height:18px}.category-heading h3{font-size:17px}.category-heading>span:last-child{font-size:8px;padding:3px 7px}.product-grid{gap:10px}.product{border-radius:12px}.product-image img{height:160px;padding:32px 10px 13px}.product-type{font-size:7px;padding:2px 5px;left:7px;top:8px;max-width:94%}.product-body{padding:12px 10px}.product h3{font-size:12px;min-height:52px}.product-description{font-size:10px;min-height:50px;margin-bottom:12px}.product-bottom{margin-top:12px;margin-bottom:12px}.product-bottom .price{font-size:19px}.product-bottom .price small{font-size:8px}.product-bottom .price small:first-child{display:block;line-height:1.3}.product-bottom .price small:last-child{margin-left:4px}.purchase-actions{grid-template-columns:1fr;gap:7px}.quick-cart .button,.configure-cart{height:36px;min-height:36px;font-size:10px}.purchase-actions .learn-more{height:33px;font-size:10px}.options-note{display:none}.compare-check{margin-top:13px;font-size:9px}.guidance{padding-top:36px;padding-bottom:36px;gap:25px}.guidance h2{font-size:27px}.faqs{padding:4px 16px;border-radius:12px}.faqs summary{font-size:11px}.expert{padding:30px 0}.expert h2{font-size:28px}.expert .button{font-size:11px;padding:12px 18px}.expert:after{font-size:130px;right:0;bottom:-30px}dialog{padding:20px;border-radius:16px}.dialog-head h2{font-size:18px}.dialog-head button{flex-shrink:0}.compare-tray{border-radius:12px}.compare-tray .button{border-radius:20px}footer{gap:20px}footer .logo img{width:130px}}
 @media(prefers-reduced-motion:reduce){.machine,.product,.category-nav a{transition:none}.machine:hover,.product:hover{transform:none}}
 .category-heading>.category-icon{color:#cd2d0c;font-size:inherit}
 

diff --git a/docs/accessories-design-requirements.zh-CN.md b/docs/accessories-design-requirements.zh-CN.md
@@ -51,7 +51,7 @@
 
 - 主色沿用 `#E7310E`；深色区域采用 `#11151C`，目录背景采用 `#F3F4F7`，浅橙 `#FFF0EA` 用于选中标签与分类图标。白色产品卡与浅灰背景建立层级，避免整页只有细线和白底。
 - 使用官网原版 SVG Logo、Archivo 400/700 和六个真实机型缩略图。图片只来自 OneLaser；机型图片来源记录于 `docs/accessories-machine-image-sources.json`。系列图以具体机型作代表，不表示系列所有型号外观相同。
-- 首个模块仍为选机区：深色背景、有限橙红光晕、橙红分隔线、图文同排的六个机型卡片；卡片高度为桌面 88px、手机 86px，不换行，超宽左右滚动。选中机型以橙红底与勾选提示区别。
+- 首个模块仍为选机区：深色背景、有限橙红光晕、橙红分隔线、图文同排的六个机型卡片；卡片高度为桌面 88px、手机 86px，不换行，超宽左右滚动。机型卡片使用白底、深色文字和浅灰图片衬底；选中态使用浅暖色底、橙红边框及勾选标记，保留图片对比度。
 - 分类导航增加 SVG 用途图标与数量圆角标签；筛选栏采用独立白色容器；专家帮助卡采用与选机栏呼应的深色背景。
 - 商品卡采用 16px 圆角、大幅真实产品图、用途标签、突出价格和双操作按钮。桌面端橙红 Add to cart 与描边 Learn More 并排，窄屏上下排列，避免挤压文字。悬停有轻微阴影和位移，reduced-motion 下关闭位移。
 - FAQ 采用浅灰圆角容器；页尾专家模块沿用深色与橙红 CTA，形成完整品牌层级。仍不在选机前添加营销大图、促销倒计时，也不恢复用户已移除的辅助文案。
@@ -104,3 +104,5 @@
 公共导航更新：移除静态页独立设计的顶部/底部导航，改为官网当前导航快照；新增 Shopify 正文 section 与默认 layout 页面模板，正式接入后随当前主题公共导航同步。静态预览刷新脚本与主题构建脚本位于 scripts/，详细边界和验证见 accessories-theme-integration.zh-CN.md。
 
 侧栏咨询卡片：按钮改为 Schedule a Sales Call，使用官网顶部相同的 `/products/sales-consultation-call#book` 预约入口及 `data-ol-booking` 属性。正式主题通过现有 OneLaserHeaderBooking / Appointo 处理器打开预约日历；GitHub 跨域预览跳转官网预约入口。点击不创建预约，须由访客自行选择时间并完成提交。
+
+机型图片可读性优化：保留机器图片帮助识别，深色模块内的卡片改为白色，名称/数量使用深灰；图片展示区域扩大为 94px 宽，并通过 object-fit: cover 在显示区域裁去透明留白。选中态继续保持浅色图片衬底，以橙红边框和勾选提示表示选择。卡片高度仍为桌面 88px、手机 86px，两端均单行超宽滑动。
